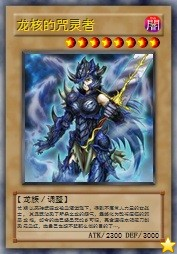
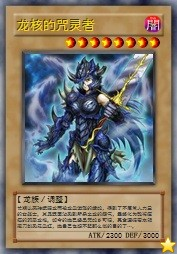
update-auto

Changed region(s): [[0.0847, 0.7992, 0.8757, 0.9094]]

diff --git a/ygosrv233/pre.html b/ygosrv233/pre.html
@@ -149,7 +149,7 @@
 <tr><td><a href="pre/pics/100405018.jpg" target="_blank"><img src="pre/pics/thumbnail/100405018.jpg" alt="魔界剧团-大明星"></a></td><td>魔界剧团-大明星</td><td>[怪兽|效果|灵摆] 恶魔/暗<br>[★7] 2500/1800  3/3<br>←3 【灵摆】 3→<br>①：1回合1次，把自己场上1只「魔界剧团」怪兽解放，以自己墓地1张「魔界台本」魔法卡为对象才能发动。那张卡加入手卡。<br>【怪兽效果】<br>①：在这张卡的召唤·特殊召唤成功时，对方不能把魔法·陷阱卡的效果发动。<br>②：1回合1次，自己主要阶段才能发动。从卡组选1张「魔界台本」魔法卡在自己场上盖放。这个效果盖放的卡在结束阶段送去墓地。</td></tr>
 <tr><td><a href="pre/pics/100405024.jpg" target="_blank"><img src="pre/pics/thumbnail/100405024.jpg" alt="魔界台本「开幕式」"></a></td><td>魔界台本「开幕式」</td><td>[魔法]<br>「魔界台本「开幕式」」的①②的效果1回合各能使用1次。<br>①：自己回复自己场上的「魔界剧团」怪兽数量×500基本分。<br>②：自己的额外卡组有表侧表示的「魔界剧团」灵摆怪兽存在，盖放的这张卡被对方的效果破坏的场合才能发动。自己直到手卡变成5张为止从卡组抽卡。</td></tr>
 <tr><td><a href="pre/pics/100405101.jpg" target="_blank"><img src="pre/pics/thumbnail/100405101.jpg" alt="D-融合"></a></td><td>D-融合</td><td>[陷阱]<br>这张卡的效果融合召唤的场合，不是「命运英雄」怪兽不能作为融合素材。<br>①：从自己场上把融合怪兽卡决定的融合素材怪兽送去墓地，把那1只融合怪兽从额外卡组融合召唤。这个效果特殊召唤的怪兽在这个回合不会被战斗·效果破坏。</td></tr>
-<tr><td><a href="pre/pics/100910001.jpg" target="_blank"><img src="pre/pics/thumbnail/100910001.jpg" alt="龙核的咒灵者"></a></td><td>龙核的咒灵者</td><td>[怪兽|通常|调整] 龙/暗<br>[★8] 2300/3000<br>长期以来持续猎龙被血液泼溅下，得到不属常人力量的女战士。其灵魂沾染了所杀之龙的怨气，最终化为散布瘟疫的邪恶龙核。如今的她已经是无故乡可归，完全遵循本能把刀剑染成血红，她自己也想不起那么做的目的了…。</td></tr>
+<tr><td><a href="pre/pics/100910001.jpg" target="_blank"><img src="pre/pics/thumbnail/100910001.jpg" alt="龙核的咒灵者"></a></td><td>龙核的咒灵者</td><td>[怪兽|通常|调整] 龙/暗<br>[★8] 2300/3000<br>长期以来持续猎龙而被龙血泼溅的缘故，得到了不属常人力量的女战士。其灵魂因沾染到所杀之龙的怨气，最终化为散布瘟疫的邪恶龙核。如今的她已经是无故乡可归，完全遵循着本能把刀剑染成血红，她自己也想不起那么做的目的了…。</td></tr>
 <tr><td><a href="pre/pics/100910002.jpg" target="_blank"><img src="pre/pics/thumbnail/100910002.jpg" alt="娱乐伙伴 妙想魔女"></a></td><td>娱乐伙伴 妙想魔女</td><td>[怪兽|效果|灵摆] 魔法师/暗<br>[★3] 800/800  4/4<br>←4 【灵摆】 4→<br>「娱乐伙伴 妙想魔女」的灵摆效果1回合只能使用1次。<br>①：从额外卡组特殊召唤的怪兽只有对方场上才存在的场合才能发动。灵摆区域的这张卡特殊召唤。<br>【怪兽效果】<br>①：灵摆怪兽上级召唤的场合，这张卡可以作为2只的数量解放。</td></tr>
 <tr><td><a href="pre/pics/100910006.jpg" target="_blank"><img src="pre/pics/thumbnail/100910006.jpg" alt="捕食植物 苍蝇地狱"></a></td><td>捕食植物 苍蝇地狱</td><td>[怪兽|效果] 植物/暗<br>[★2] 400/800<br>①：1回合1次，以对方场上1只表侧表示怪兽为对象才能发动。给那只怪兽放置1个捕食指示物。有捕食指示物放置的2星以上的怪兽的等级变成1星。<br>②：这张卡和持有这张卡的等级以下的等级的怪兽进行战斗的伤害步骤开始时才能发动。那只怪兽破坏。那之后，这张卡的等级上升破坏的那只怪兽的原本等级数值。</td></tr>
 <tr><td><a href="pre/pics/100910007.jpg" target="_blank"><img src="pre/pics/thumbnail/100910007.jpg" alt="捕食植物 海鳝猪笼草"></a></td><td>捕食植物 海鳝猪笼草</td><td>[怪兽|效果] 植物/暗<br>[★4] 1600/1000<br>①：这张卡的攻击力上升场上的捕食指示物数量×200。<br>②：这张卡战斗破坏对方怪兽时才能发动。那只破坏的怪兽当作装备卡使用给这张卡装备。<br>③：1回合1次，以这张卡的效果装备的1张怪兽卡为对象才能发动。那张卡破坏，自己基本分回复那个原本攻击力的数值。</td></tr>
